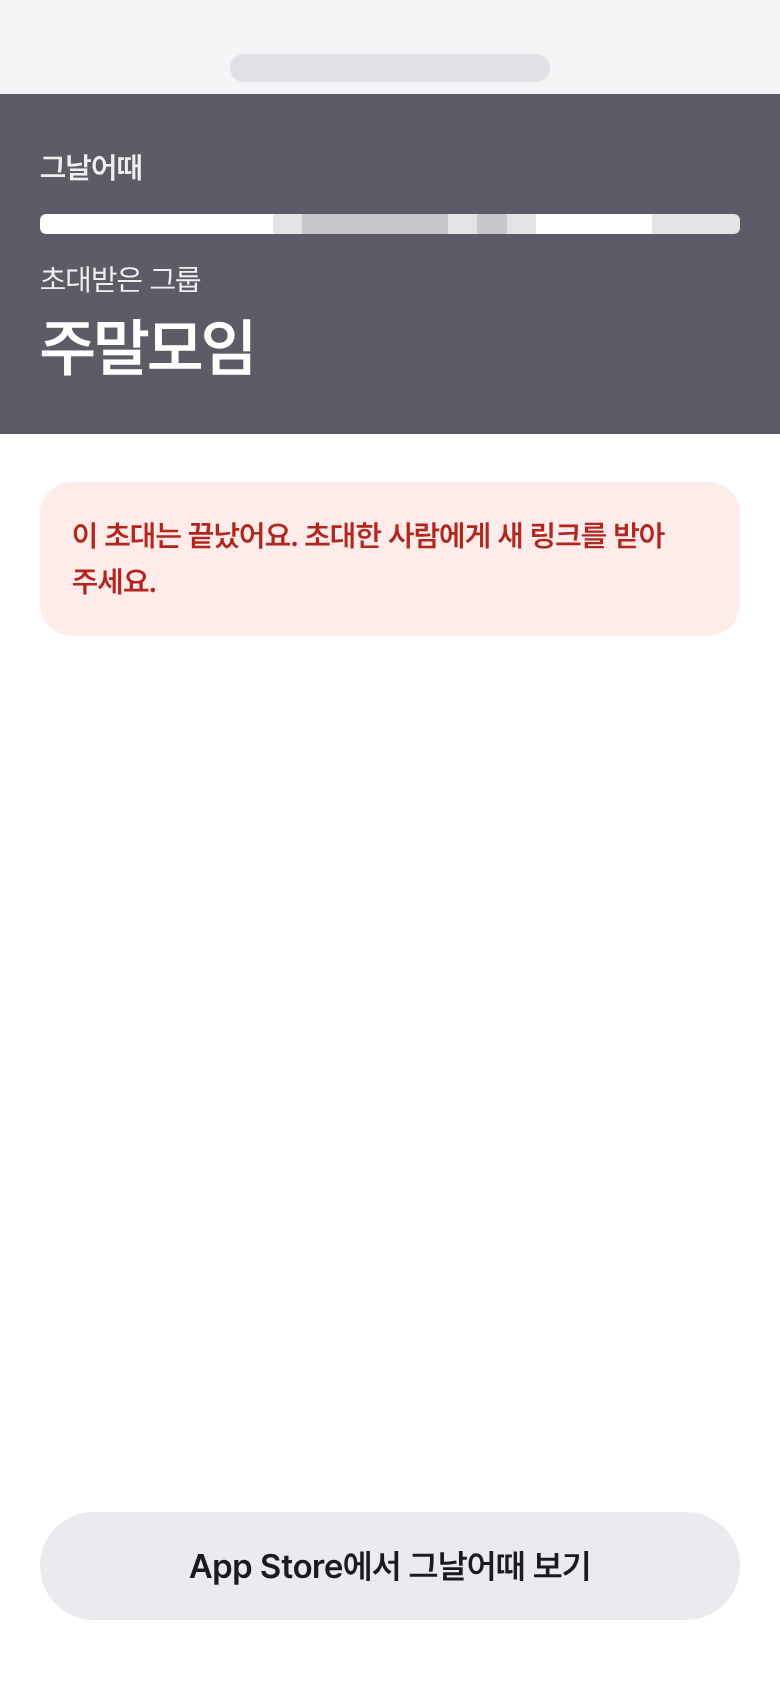
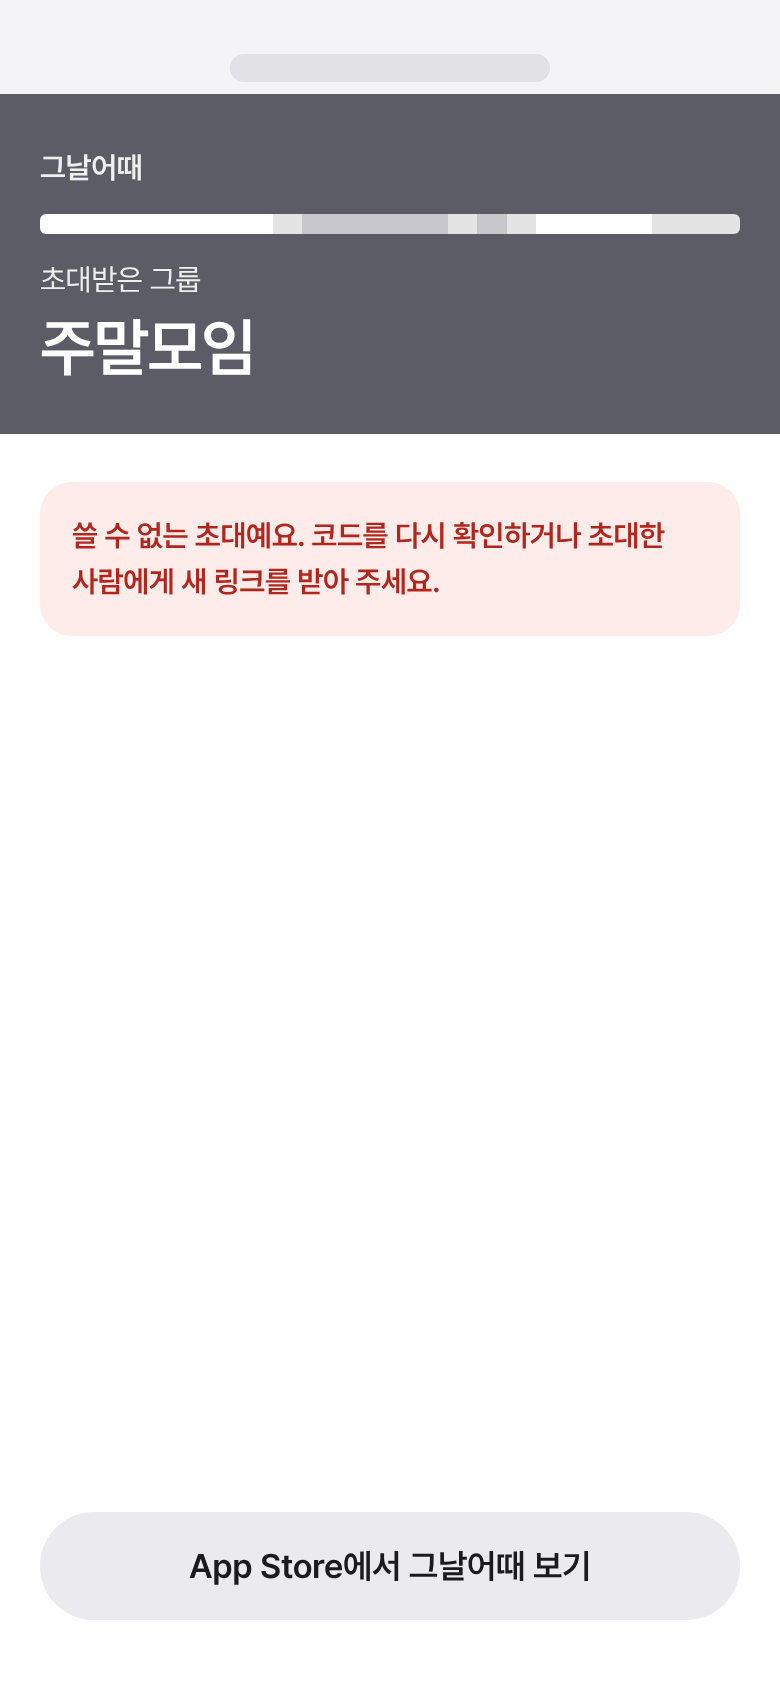
docs(design): show one message for unknown, expired and used invite codes
The invite contract returns 404 invite_invalid for all three, so screens
3, 14 and 21 share one message, recorded as M2 decision 12.

Claude-Session: https://claude.ai/code/session_0132zdS6ZvVTjdo7UHj8sPRp

Changed region(s): [[0.0923, 0.3081, 0.8615, 0.3697]]

diff --git a/docs/design/boards/InviteWeb.dc.html b/docs/design/boards/InviteWeb.dc.html
@@ -45,7 +45,7 @@ input{font:inherit;letter-spacing:inherit;color:inherit}
 <span style="text-align: center; font-size: 13px; line-height: 1.5; color: #5c5c66">그룹 이름은 링크에만 있고 서버로 보내지 않아요.</span>
 </sc-if>
 <sc-if value="{{ended}}" hint-placeholder-val="{{false}}">
-<div role="alert" style="padding: 16px; border-radius: 16px; background: #fdecea; color: #b3261e; font-size: 15px; line-height: 1.5; font-weight: 600">이 초대는 끝났어요. 초대한 사람에게 새 링크를 받아 주세요.</div>
+<div role="alert" style="padding: 16px; border-radius: 16px; background: #fdecea; color: #b3261e; font-size: 15px; line-height: 1.5; font-weight: 600">쓸 수 없는 초대예요. 코드를 다시 확인하거나 초대한 사람에게 새 링크를 받아 주세요.</div>
 <a href="Welcome.dc.html" style="margin-top: auto; height: 54px; border-radius: 999px; background: #ebebef; display: flex; align-items: center; justify-content: center; font-size: 17px; font-weight: 600">{{storeLabelPlain}}</a>
 </sc-if>
 </main>

diff --git a/docs/design/screens.md b/docs/design/screens.md
@@ -107,10 +107,10 @@
 | <img src="screens/m2/01-groups@2x.png" width="240" alt="그룹 목록"> | <img src="screens/m2/02-invite@2x.png" width="240" alt="초대 보내기"> | <img src="screens/m2/03-join@2x.png" width="240" alt="초대 받은 사람"> |
 | 그룹마다 다음 약속이나 최근 소식, 응답할 일 배지. | 카카오톡 초대, 링크 복사, 초대 코드, 카카오톡 미리보기 카드. | 참여하면 그룹에 무엇이 보이는지, 공유 기간과 포함할 캘린더를 먼저 보여 줍니다. |
 
-| 초대 웹 페이지(앱이 없을 때) | 끝난 초대 |
+| 초대 웹 페이지(앱이 없을 때) | 쓸 수 없는 초대 |
 | --- | --- |
-| <img src="screens/m2/21-invite-web@2x.png" width="240" alt="초대 웹 페이지"> | <img src="screens/m2/21-invite-web--ended@2x.png" width="240" alt="끝난 초대 웹 페이지"> |
-| 누가 어느 그룹에 초대했는지, 설치 단계, 초대 코드. 안드로이드는 2단계가 "앱을 열면 이 초대가 그대로 이어져요"입니다. | 링크의 그룹 이름만 남기고 새 링크를 받으라고 안내합니다. |
+| <img src="screens/m2/21-invite-web@2x.png" width="240" alt="초대 웹 페이지"> | <img src="screens/m2/21-invite-web--ended@2x.png" width="240" alt="쓸 수 없는 초대 웹 페이지"> |
+| 누가 어느 그룹에 초대했는지, 설치 단계, 초대 코드. 안드로이드는 2단계가 "앱을 열면 이 초대가 그대로 이어져요"입니다. | 없는 코드·끝난 코드·다 쓴 코드를 한 문구로. 링크의 그룹 이름만 남깁니다. |
 
 ### 날짜 잡기: 날 탭 → 30분 테이블 → 신청
 
